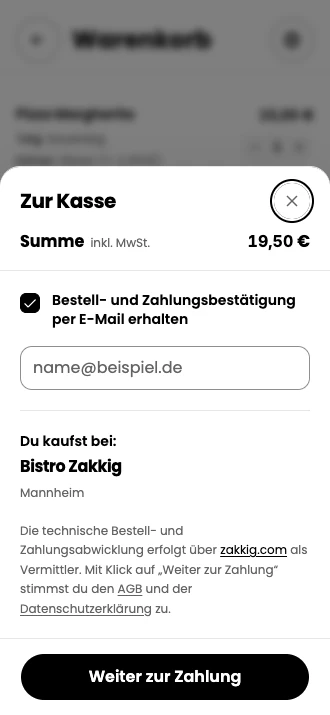
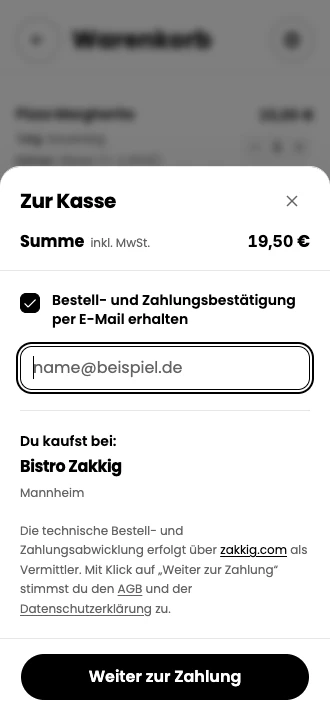
switched focus on checkout demo screenshot from close button to email input and documented state in design system

Changed region(s): [[0.0303, 0.4615, 0.9697, 0.5538], [0.8182, 0.2462, 0.9697, 0.3077], [0.8788, 0.3077, 0.9091, 0.3385]]

diff --git a/docs/design-system.md b/docs/design-system.md
@@ -65,7 +65,7 @@ The [website QR showcase](../website/components/QrCodeShowcase.tsx) renders a re
 <a id="ds-website"></a>
 ## DS-07: Marketing website
 
-[MainPage](../website/components/MainPage.tsx) keeps the editorial hero, QR sheet, product views, setup flow, pricing, FAQ, and signup action. [Header](../website/components/Header.tsx) uses translated native hash links and an accessible mobile menu with Escape dismissal and focus return. [ProductDemo](../website/components/ProductDemo.tsx) renders the committed DE/EN captures at standard iPhone dimensions (`w-[285px] h-[590px]`, 330x715px) and tablet dimensions (`1200x710px`) with collapsed sidebar; the second phone screen capture (`de-pay.webp`, `en-pay.webp`) demonstrates the open checkout dialog displaying the checked confirmation email toggle, expanded input, and intermediary disclaimers. The page uses the shared button roles and 4px scale; static layout is authored in Tailwind JSX, with [global CSS](../website/app/globals.css) reserved for tokens and base behavior. [AnimatedBenefitStat](../website/components/AnimatedBenefitStat.tsx) animates on intersection and jumps to its target under reduced motion.
+[MainPage](../website/components/MainPage.tsx) keeps the editorial hero, QR sheet, product views, setup flow, pricing, FAQ, and signup action. [Header](../website/components/Header.tsx) uses translated native hash links and an accessible mobile menu with Escape dismissal and focus return. [ProductDemo](../website/components/ProductDemo.tsx) renders the committed DE/EN captures at standard iPhone dimensions (`w-[285px] h-[590px]`, 330x715px) and tablet dimensions (`1200x710px`) with collapsed sidebar; the second phone screen capture (`de-pay.webp`, `en-pay.webp`) demonstrates the open checkout dialog displaying the checked confirmation email toggle, focused email input field, and intermediary disclaimers without active focus rings on the close action. The page uses the shared button roles and 4px scale; static layout is authored in Tailwind JSX, with [global CSS](../website/app/globals.css) reserved for tokens and base behavior. [AnimatedBenefitStat](../website/components/AnimatedBenefitStat.tsx) animates on intersection and jumps to its target under reduced motion.
 
 The website uses viewport composition breakpoints and features a unified 100% light surface hierarchy across all sections and the footer, cleanly delineated by Zakkig's signature horizontal [WaveLine](../website/components/WaveLine.tsx) dividers in solid black (`text-black`, $16\,\text{px}$ wavelength, $12\,\text{px}$ height, $4.5\,\text{px}$ amplitude) as a core visual trademark, with the footer divider serving as the sole divider above the footer. On mobile viewports, the [footer](../website/components/SiteFooter.tsx) maintains deliberate breathing room between the MARS enterprise badge and legal links, and reduced distance to the squirrel mascot. Navigation and legal links render with tracked uppercase (`uppercase tracking-[0.08em]`) for distinct wayfinding, while buttons, dialog triggers, and body text use natural casing. Its QR paper shadow is an object treatment, not general elevation. [Page](../website/components/MainPage.tsx), [QR](../website/components/QrCodeShowcase.tsx), [footer](../website/components/SiteFooter.tsx).
 
